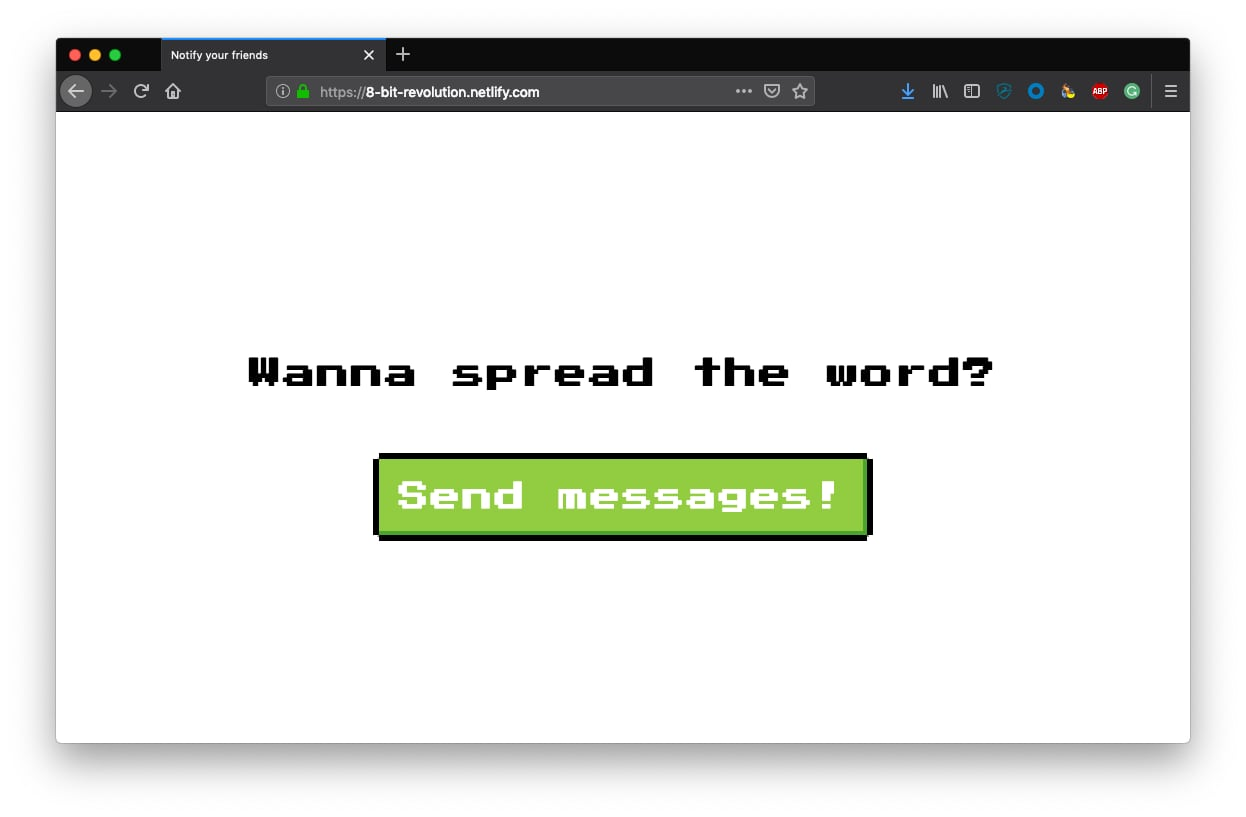
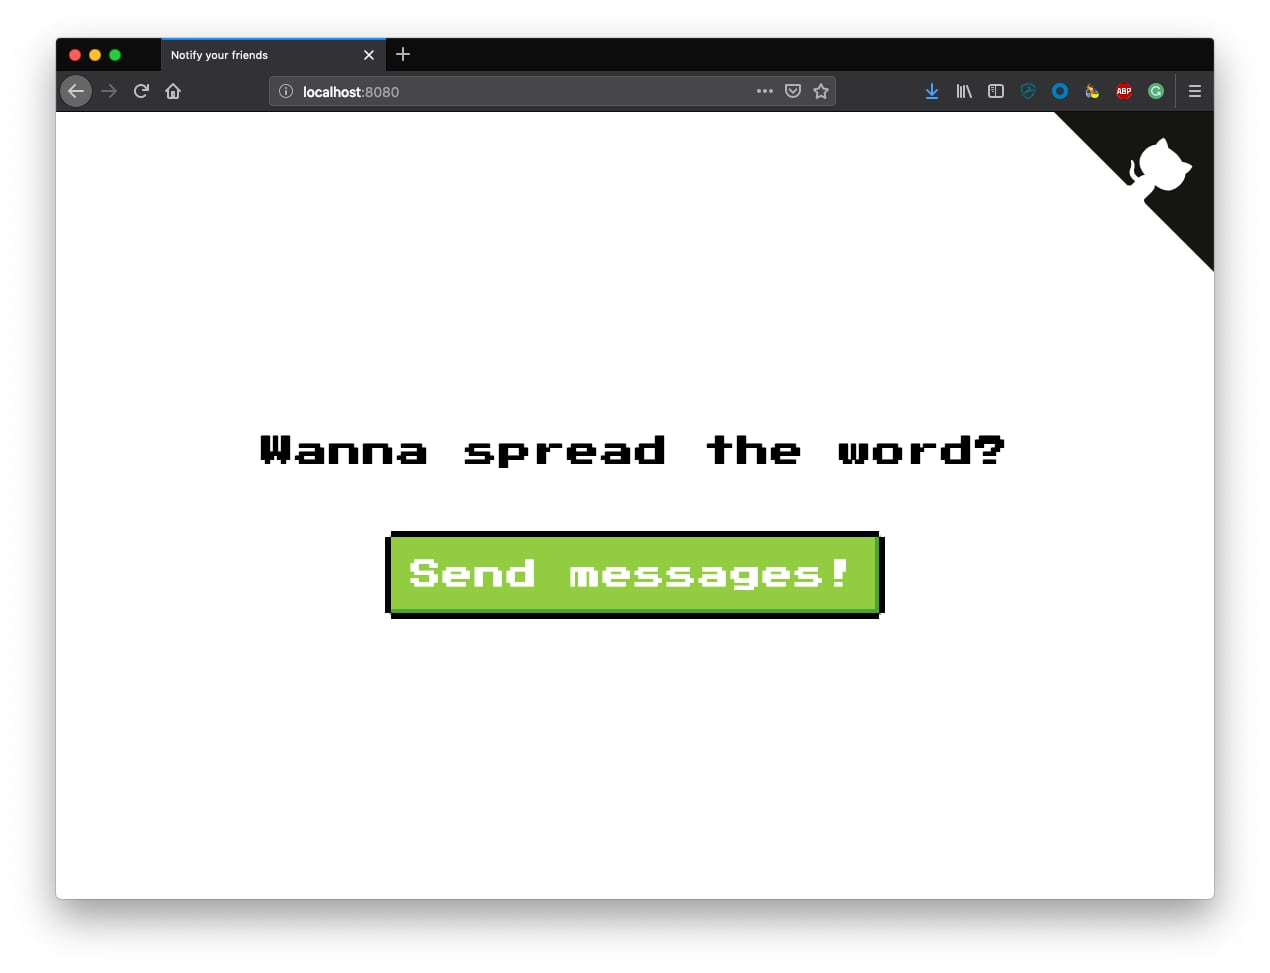
Update readme and add github ribbon

diff --git a/dist/index.html b/dist/index.html
@@ -13,6 +13,56 @@
   </head>
 
   <body>
+    <a
+      href="https://your-url"
+      class="github-corner"
+      aria-label="View source on GitHub"
+      ><svg
+        width="160"
+        height="160"
+        viewBox="0 0 250 250"
+        style="fill:#151513; color:#fff; position: absolute; top: 0; border: 0; right: 0;"
+        aria-hidden="true"
+      >
+        <path d="M0,0 L115,115 L130,115 L142,142 L250,250 L250,0 Z"></path>
+        <path
+          d="M128.3,109.0 C113.8,99.7 119.0,89.6 119.0,89.6 C122.0,82.7 120.5,78.6 120.5,78.6 C119.2,72.0 123.4,76.3 123.4,76.3 C127.3,80.9 125.5,87.3 125.5,87.3 C122.9,97.6 130.6,101.9 134.4,103.2"
+          fill="currentColor"
+          style="transform-origin: 130px 106px;"
+          class="octo-arm"
+        ></path>
+        <path
+          d="M115.0,115.0 C114.9,115.1 118.7,116.5 119.8,115.4 L133.7,101.6 C136.9,99.2 139.9,98.4 142.2,98.6 C133.8,88.0 127.5,74.4 143.8,58.0 C148.5,53.4 154.0,51.2 159.7,51.0 C160.3,49.4 163.2,43.6 171.4,40.1 C171.4,40.1 176.1,42.5 178.8,56.2 C183.1,58.6 187.2,61.8 190.9,65.4 C194.5,69.0 197.7,73.2 200.1,77.6 C213.8,80.2 216.3,84.9 216.3,84.9 C212.7,93.1 206.9,96.0 205.4,96.6 C205.1,102.4 203.0,107.8 198.3,112.5 C181.9,128.9 168.3,122.5 157.7,114.1 C157.9,116.9 156.7,120.9 152.7,124.9 L141.0,136.5 C139.8,137.7 141.6,141.9 141.8,141.8 Z"
+          fill="currentColor"
+          class="octo-body"
+        ></path></svg></a
+    ><style>
+      .github-corner:hover .octo-arm {
+        animation: octocat-wave 560ms ease-in-out;
+      }
+      @keyframes octocat-wave {
+        0%,
+        100% {
+          transform: rotate(0);
+        }
+        20%,
+        60% {
+          transform: rotate(-25deg);
+        }
+        40%,
+        80% {
+          transform: rotate(10deg);
+        }
+      }
+      @media (max-width: 500px) {
+        .github-corner:hover .octo-arm {
+          animation: none;
+        }
+        .github-corner .octo-arm {
+          animation: octocat-wave 560ms ease-in-out;
+        }
+      }
+    </style>
     <p class="successMsg" role="alert" hidden>Messages sent...</p>
     <p class="errorMsg" role="alert" hidden>Something went wrong...</p>
     <form name="contact" class="form" method="POST" data-netlify="true">

diff --git a/README.md b/README.md
@@ -1,9 +1,25 @@
 # 8-bit-revolution
 
-> aka "How to send messages on [Netlify](https://www.netlify.com/) using [Twilio](https://www.twilio.com/) and serverless functions
+> aka "How to send text messages from your static site using [Netlify](https://www.netlify.com/), [Twilio](https://www.twilio.com/) and serverless functions
 
-[![Deploy to Netlify](https://www.netlify.com/img/deploy/button.svg)](https://app.netlify.com/start/deploy?repository=https://github.com/stefanjudis/netlify-message-notifier)
-
-Tell your friends how much you like 8-bit via text... every day!
+Tell your friends how much you like 8-bit via text (SMS or WhatsApp)... every day! As much as you want!
 
 ![Website of 8-bit-revolution including "spread the word" and a "send messages button](./screenshot.jpg)
+
+## How does this work?
+
+Using serverless functions you can build all the HTTP you need to power your static site (finally!!!). This example site uses Netlify Lambda to send messages to all of your friends using Twilio.
+
+## Setup
+
+[![Deploy to Netlify](https://www.netlify.com/img/deploy/button.svg)](https://app.netlify.com/start/deploy?repository=https://github.com/stefanjudis/8-bit-revolution)
+
+To set this project up yourself you can hit the button (👆) which leads you to a one-click install solution. What you need is a Twilio account and number and the numbers of your friends.
+
+You can watch me setting it up in real time! 🙈
+
+TODO youtube video!
+
+## Learn more
+
+You can find out more on how this is done by reading the tutorial on [twilio.com-TODO](...).
